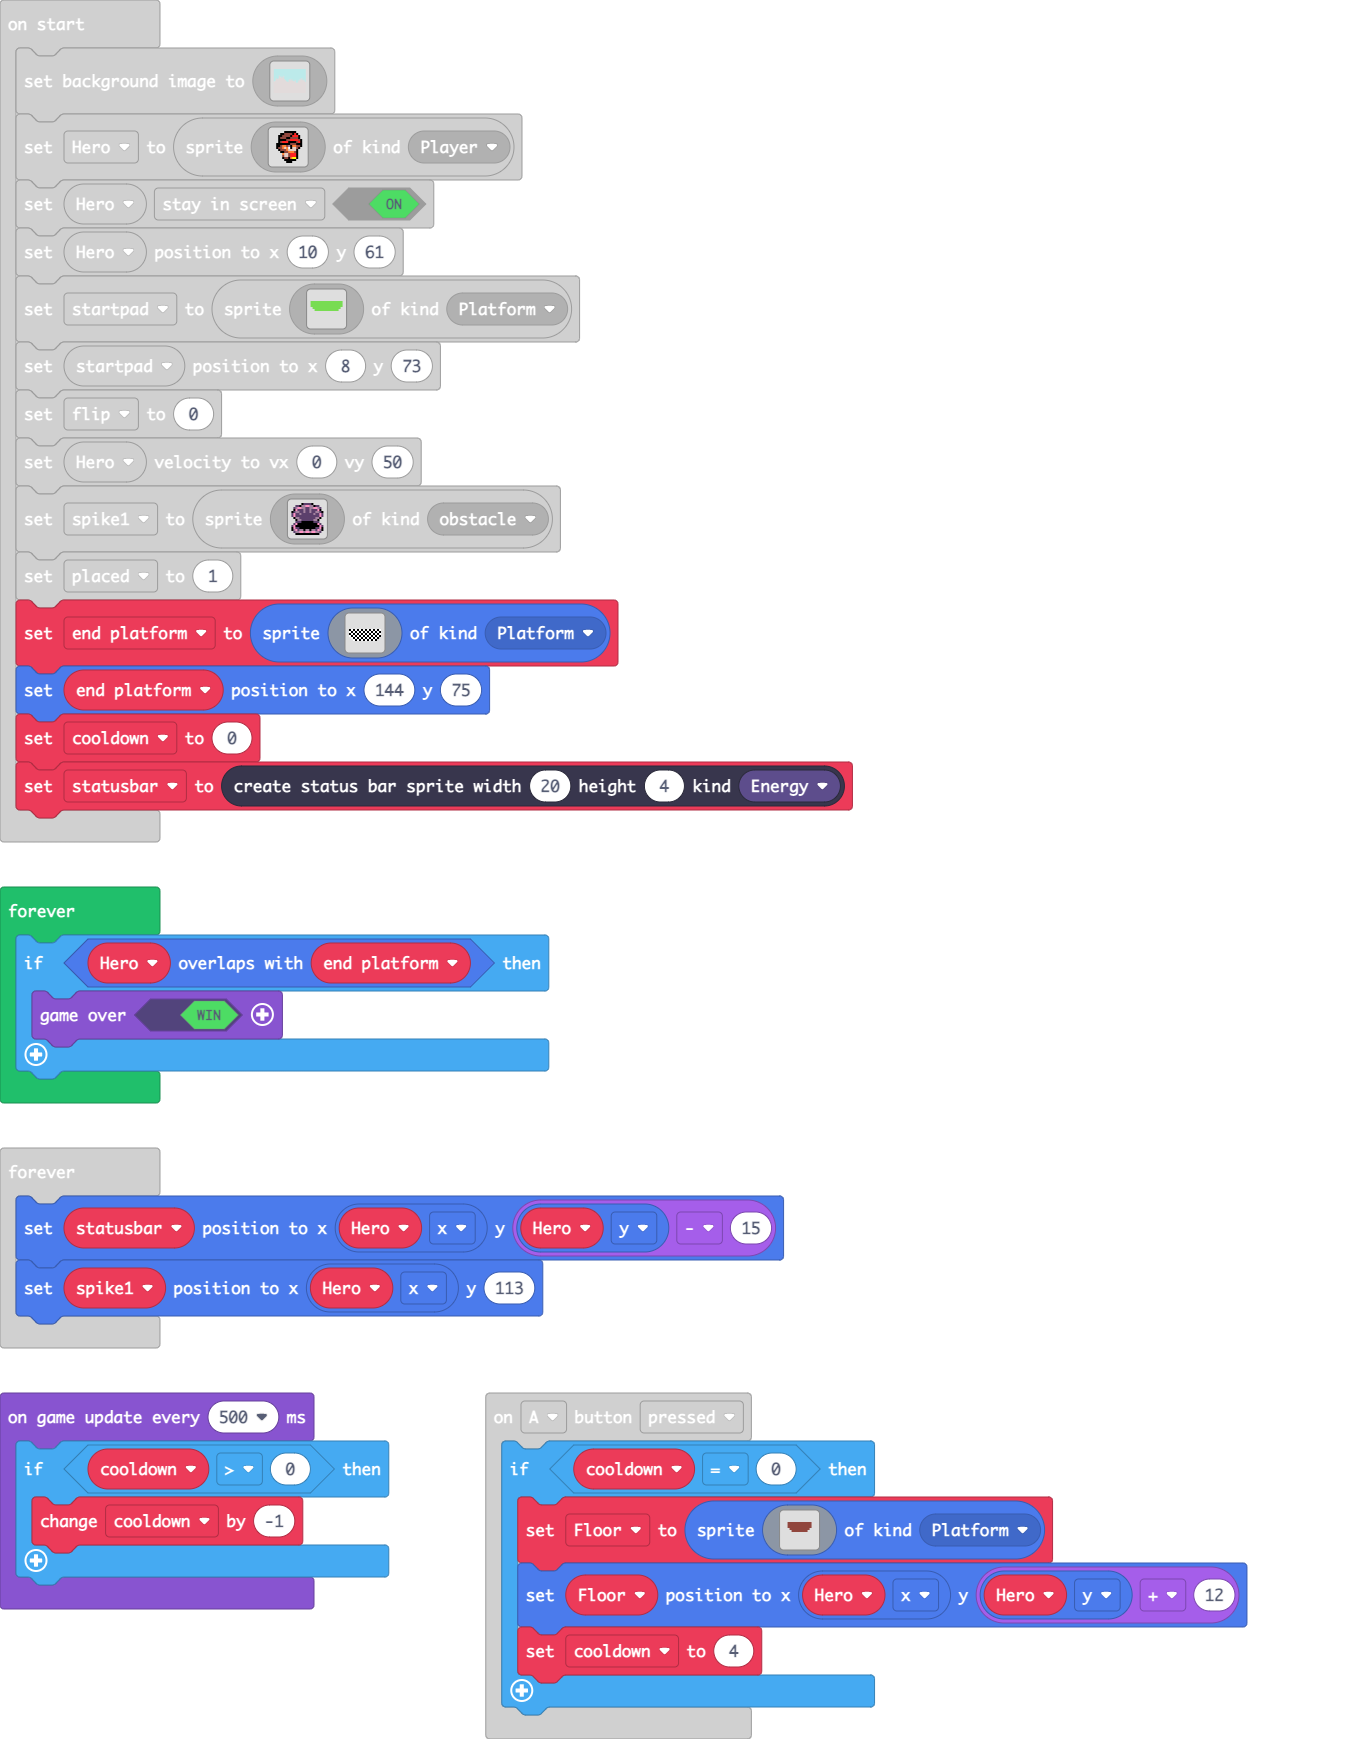
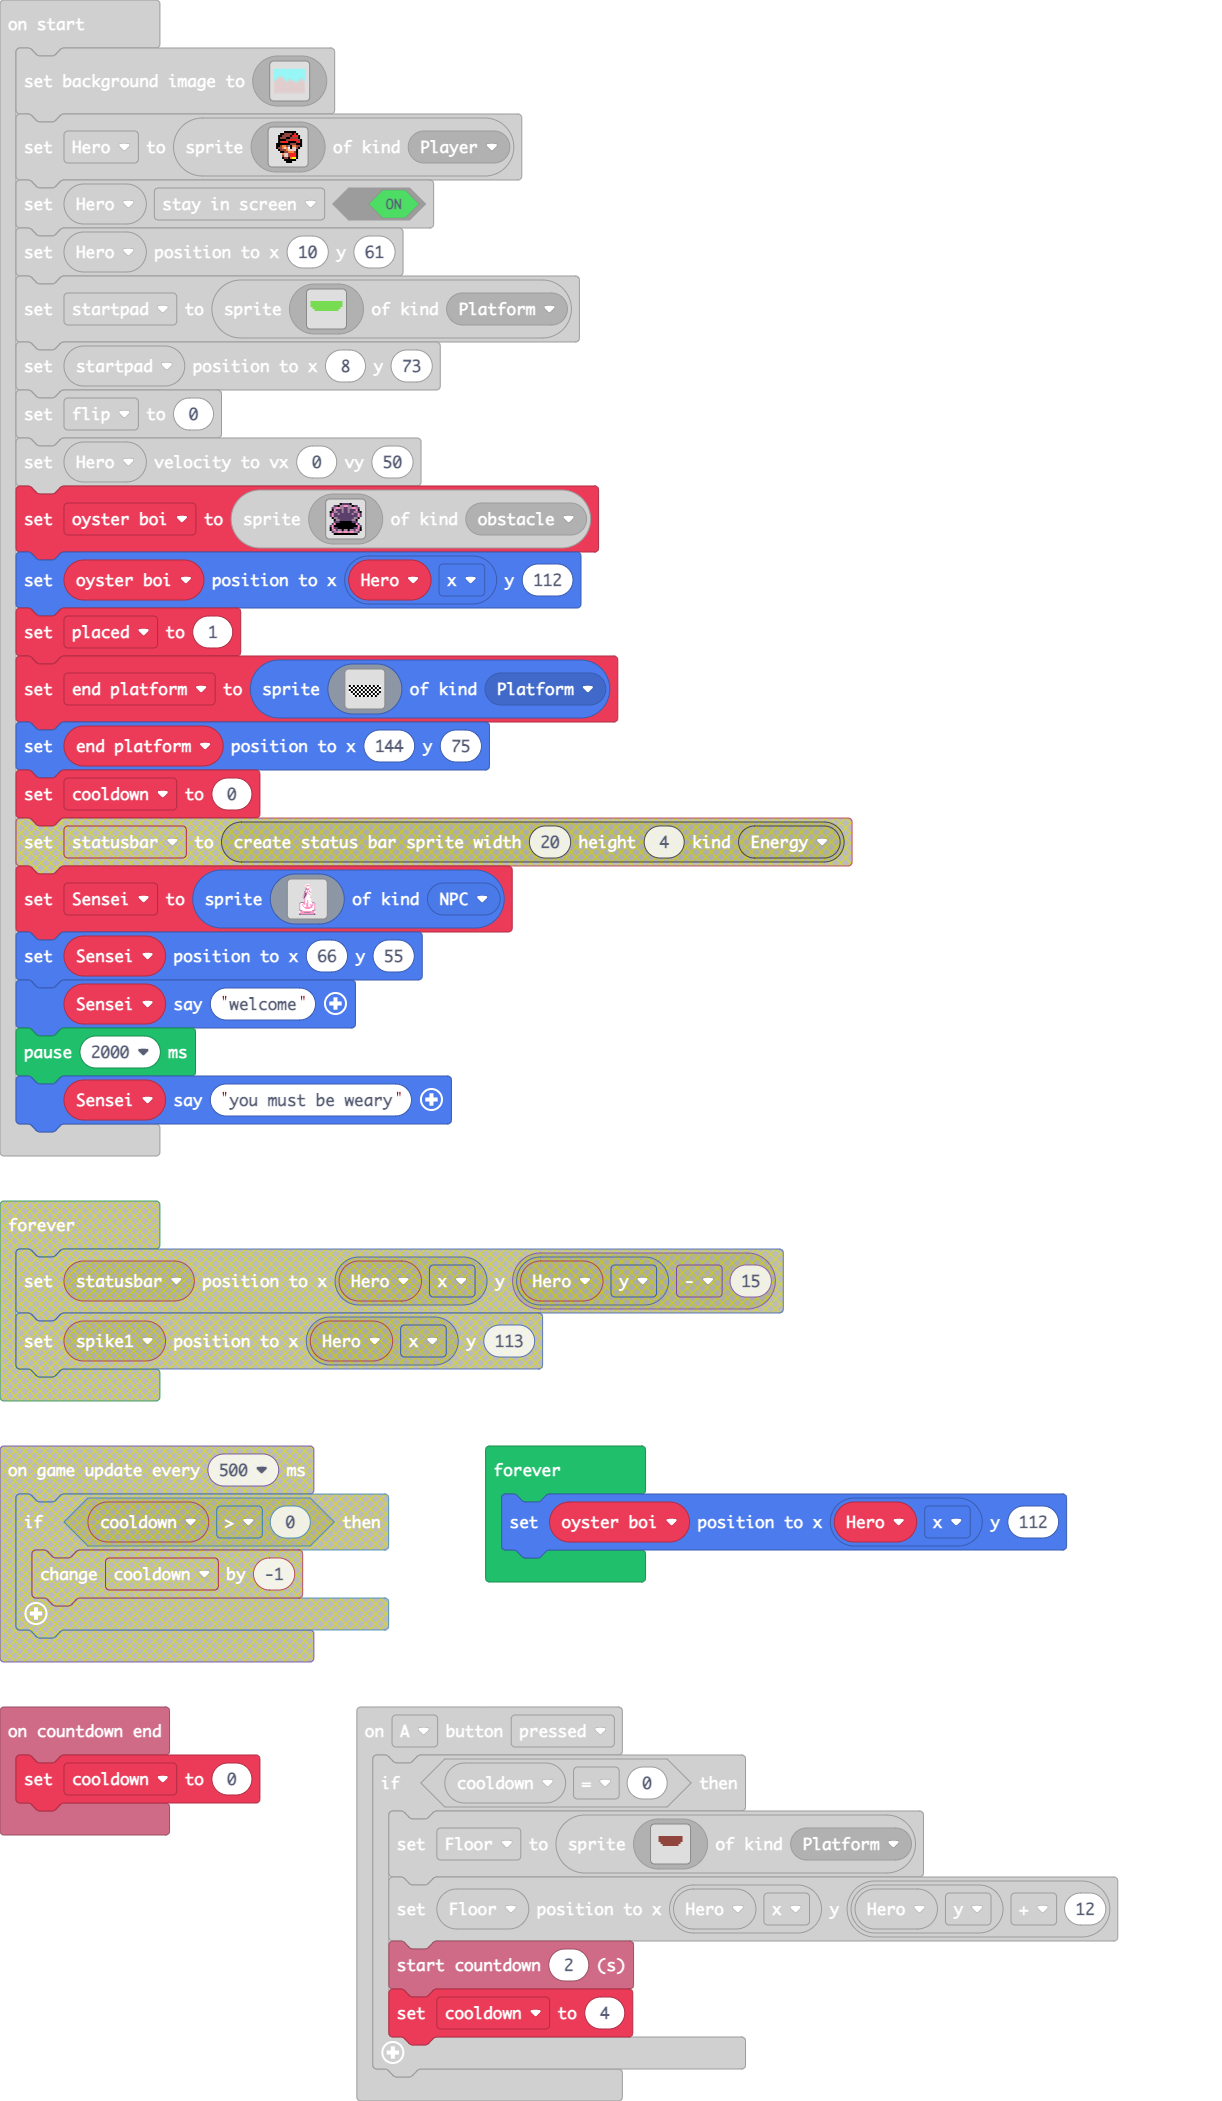
Update main.blocks, main.ts, images.g.jres, images.g.ts

diff --git a/main.ts b/main.ts
@@ -1,6 +1,7 @@
 namespace SpriteKind {
     export const Platform = SpriteKind.create()
     export const obstacle = SpriteKind.create()
+    export const NPC = SpriteKind.create()
 }
 controller.up.onEvent(ControllerButtonEvent.Pressed, function () {
     if (placed == 1) {
@@ -36,6 +37,7 @@ controller.A.onEvent(ControllerButtonEvent.Pressed, function () {
             . . . . . . . . . . . . . . . . 
             `, SpriteKind.Platform)
         Floor.setPosition(Hero.x, Hero.y + 12)
+        info.startCountdown(2)
         cooldown = 4
     }
 })
@@ -55,6 +57,9 @@ controller.left.onEvent(ControllerButtonEvent.Pressed, function () {
 sprites.onOverlap(SpriteKind.Player, SpriteKind.obstacle, function (sprite, otherSprite) {
     Hero.destroy()
     game.over(false)
+})
+info.onCountdownEnd(function () {
+    cooldown = 0
 })
 controller.right.onEvent(ControllerButtonEvent.Pressed, function () {
     if (controller.up.isPressed() == false) {
@@ -236,7 +241,7 @@ let startpad = sprites.create(img`
 startpad.setPosition(8, 73)
 flip = 0
 Hero.setVelocity(0, 50)
-let spike1 = sprites.create(img`
+let oyster_boi = sprites.create(img`
     . . . . . f c c c c f . . . . . 
     . . c c f b b 3 3 b b f c c . . 
     . c b 3 3 b b c c b b 3 3 b c . 
@@ -254,6 +259,7 @@ let spike1 = sprites.create(img`
     . c b b 3 3 b 3 3 b 3 3 b b c . 
     . . f f f f f f f f f f f f . . 
     `, SpriteKind.obstacle)
+oyster_boi.setPosition(Hero.x, 112)
 placed = 1
 let end_platform = sprites.create(img`
     . . . . . . . . . . . . . . . . 
@@ -275,20 +281,51 @@ let end_platform = sprites.create(img`
     `, SpriteKind.Platform)
 end_platform.setPosition(144, 75)
 cooldown = 0
-let statusbar: Sprite = statusbars.create(20, 4, StatusBarKind.Energy)
+let Sensei = sprites.create(img`
+    ................
+    .......111......
+    ......1333......
+    ......1311......
+    ......3111......
+    ......3b131.....
+    ......b3b311....
+    ......313131....
+    .....b3131b1....
+    .....b333113....
+    .....bc31311....
+    ....3bc31131....
+    ....3bc1111.....
+    ....3c31111.....
+    ...33c111113....
+    ...1b3111111....
+    .....3111111....
+    .....3113111....
+    .....31131113...
+    .bbbb31131111bb.
+    b11133133111131b
+    3113131331131313
+    3113111331133313
+    3111311331133113
+    3111133333333113
+    3111113333311113
+    b11111111111111b
+    3bb1111111111bb3
+    1333333333333331
+    13333bbbbbb33331
+    b33333333333333b
+    cbbbbbbbbbbbbbbc
+    `, SpriteKind.NPC)
+Sensei.setPosition(66, 55)
+Sensei.say("welcome")
+pause(2000)
+Sensei.say("you must be weary")
 forever(function () {
     if (Hero.overlapsWith(end_platform)) {
         game.over(true)
     }
 })
 forever(function () {
-    statusbar.setPosition(Hero.x, Hero.y - 15)
-    spike1.setPosition(Hero.x, 113)
-})
-game.onUpdateInterval(500, function () {
-    if (cooldown > 0) {
-        cooldown += -1
-    }
+    oyster_boi.setPosition(Hero.x, 112)
 })
 game.onUpdateInterval(100, function () {
     Hero.setVelocity(0, 50)

diff --git a/images.g.ts b/images.g.ts
@@ -215,23 +215,39 @@ f 1 f 1 f 1 f 1 f 1 f 1 f 1 f 1
 . . . . . . . . . . . . . . . . 
 . . . . . . . . . . . . . . . . 
 `;
-            case "image7":return img`
-. . . . . . . . . . . . . . . . 
-. . . . . . . . . . . . . . . . 
-. . . . . . . . . . . . . . . . 
-. . . . . . . . . . . . . . . . 
-. . . . . . . . . . . . . . . . 
-. . . . . . . . . . . . . . . . 
-. . . . . . . . . . . . . . . . 
-. . . . . . . . . . . . . . . . 
-. . . . . . . . . . . . . . . . 
-. . . . . . . . . . . . . . . . 
-. . . . . . . . . . . . . . . . 
-. . . . . . . . . . . . . . . . 
-. . . . . . . . . . . . . . . . 
-. . . . . . . . . . . . . . . . 
-. . . . . . . . . . . . . . . . 
-. . . . . . . . . . . . . . . . 
+            case "image8":return img`
+................
+.......111......
+......1333......
+......1311......
+......3111......
+......3b131.....
+......b3b311....
+......313131....
+.....b3131b1....
+.....b333113....
+.....bc31311....
+....3bc31131....
+....3bc1111.....
+....3c31111.....
+...33c111113....
+...1b3111111....
+.....3111111....
+.....3113111....
+.....31131113...
+.bbbb31131111bb.
+b11133133111131b
+3113131331131313
+3113111331133313
+3111311331133113
+3111133333333113
+3111113333311113
+b11111111111111b
+3bb1111111111bb3
+1333333333333331
+13333bbbbbb33331
+b33333333333333b
+cbbbbbbbbbbbbbbc
 `;
         }
         return null;
